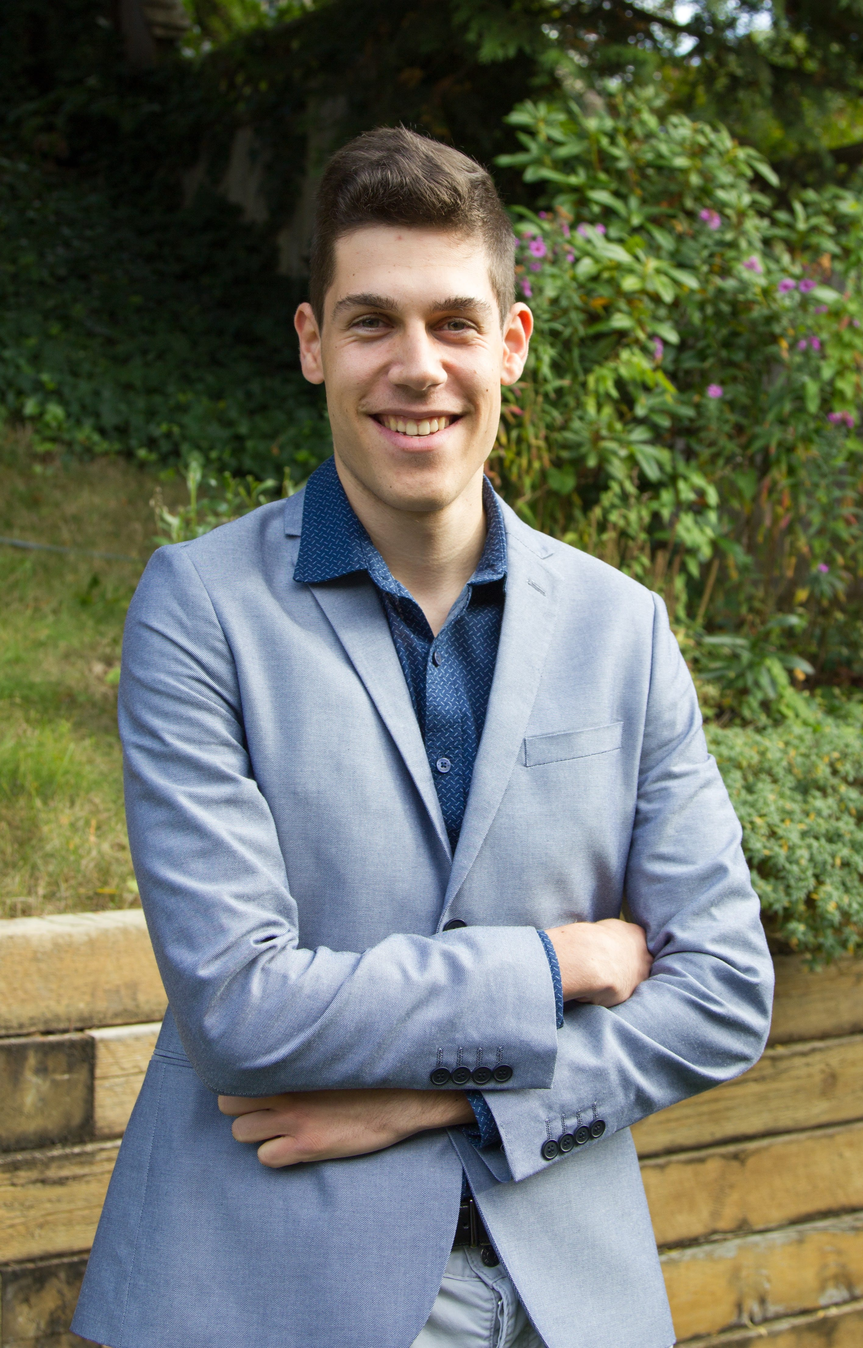
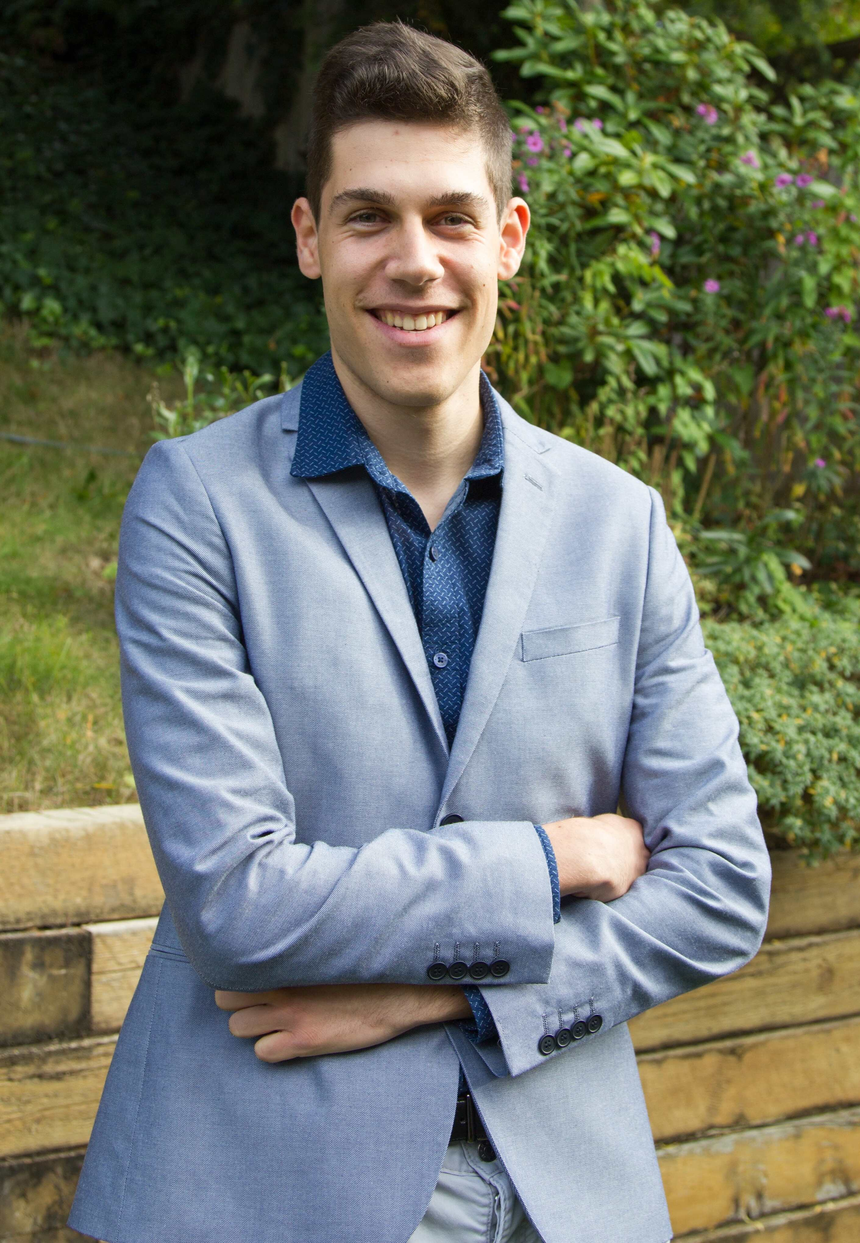
Modify image and execs layout to be more proportional

diff --git a/pages/about.js b/pages/about.js
@@ -14,8 +14,7 @@ export default function About() {
   if (error) return <div>Failed to load</div>;
 
   if (isLoading) return <div>Loading...</div>;
-  console.log("HEY", data);
-  console.log("pony", typeof data);
+
   return (
     <div className="about-page">
       <Helmet pageTitle={router.pathname} />
@@ -46,9 +45,11 @@ export default function About() {
             their courses.
           </p>
         </section>
-        {data.current.map((profile) => (
-          <ProfileCard profile={profile}></ProfileCard>
-        ))}
+        <section className="current-exec">
+          {data.current.map((profile) => (
+            <ProfileCard profile={profile}></ProfileCard>
+          ))}
+        </section>
       </main>
       <Footer />
     </div>

diff --git a/styles/components/profile-card.scss b/styles/components/profile-card.scss
@@ -6,13 +6,14 @@
   align-items: center;
   flex: 1 2;
   margin: 3em auto;
-  max-width: 90em; // 1440px recommended
   gap: 2em;
+  width: 100%;
 
   .description-img {
-    width: 20em;
+    width: 18.5em;
     height: 27.5em;
     border-radius: 1em;
+    object-fit: cover;
   }
 
   .description {

diff --git a/styles/pages/about-page.scss b/styles/pages/about-page.scss
@@ -7,6 +7,11 @@
   flex-direction: column;
   justify-content: flex-start;
 
+  .current-exec {
+    margin: 5rem auto;
+    width: min(85vw, 70rem);
+  }
+
   .footer {
     margin-top: auto;
   }
